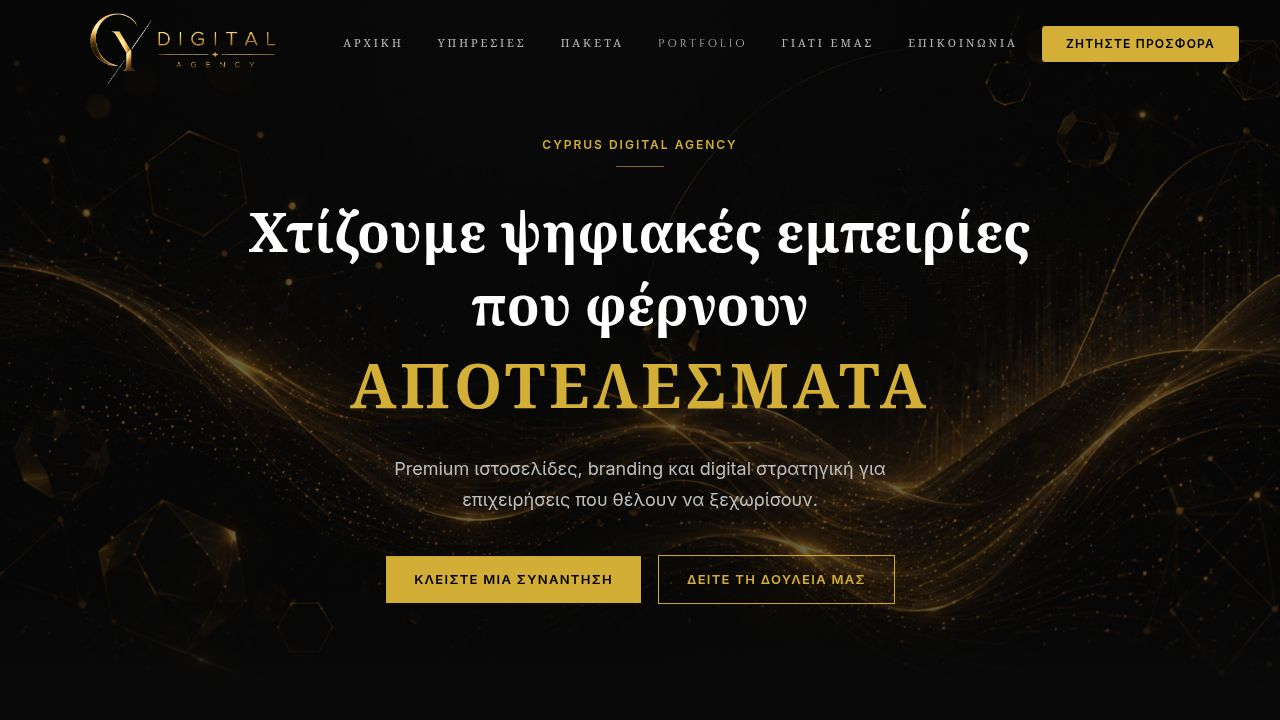
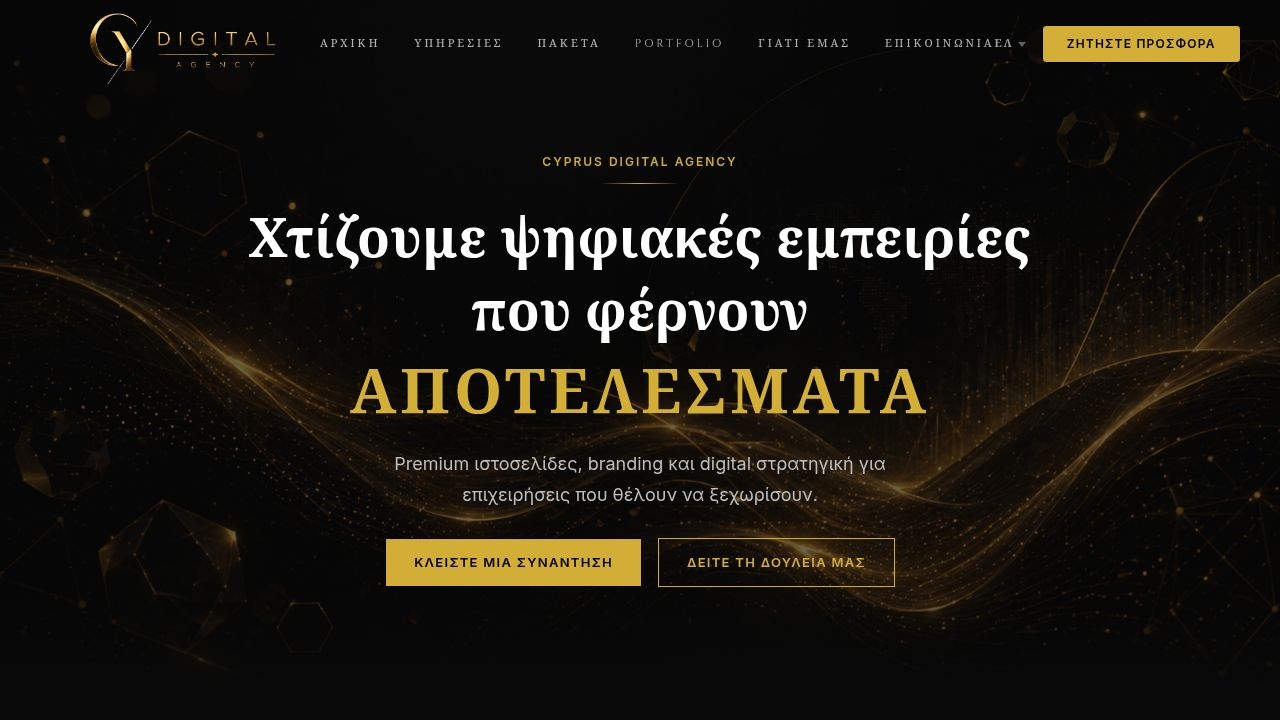
Update fonts and spacing for consistent display across languages
Update Google Fonts import to include Cinzel, adjust font families for navigation and labels in Header.tsx, and refine spacing for improved layout in desktop view.

Replit-Commit-Author: Agent
Replit-Commit-Session-Id: 8e3462cd-d2d7-46a6-a6c2-93f088b66c99
Replit-Commit-Checkpoint-Type: full_checkpoint
Replit-Commit-Event-Id: 05050cb2-1799-422c-8ecf-7397d1363fde
Replit-Commit-Screenshot-Url: https://storage.googleapis.com/screenshot-production-us-central1/b86a5d49-84b1-42db-b4d0-93cc767d2410/8e3462cd-d2d7-46a6-a6c2-93f088b66c99/IWf9iSH
Replit-Helium-Checkpoint-Created: true

diff --git a/artifacts/cydigital/src/components/Header.tsx b/artifacts/cydigital/src/components/Header.tsx
@@ -3,6 +3,9 @@ import { Menu, X } from "lucide-react";
 import { Button } from "@/components/ui/button";
 import { useLanguage, Language, languageNames } from "@/contexts/LanguageContext";
 
+const NAV_FONT = "'Cormorant Garamond', Georgia, serif";
+const LABEL_FONT = "'Cinzel', 'Cormorant Garamond', Georgia, serif";
+
 export function Header() {
   const { t, lang, setLang } = useLanguage();
   const [isScrolled, setIsScrolled] = useState(false);
@@ -60,14 +63,19 @@ export function Header() {
           />
         </div>
 
-        {/* CENTER — Nav menu (desktop) */}
-        <nav className="hidden md:flex items-center" style={{ gap: "34px" }}>
+        {/* CENTER — Nav (desktop) */}
+        <nav className="hidden md:flex items-center" style={{ gap: "22px" }}>
           {navLinks.map((link) => (
             <button
               key={link.name}
               onClick={() => handleNavClick(link.href)}
               className="uppercase text-white/70 hover:text-[#D4AF37] transition-colors duration-300 whitespace-nowrap"
-              style={{ fontFamily: "'Cinzel', 'Cormorant Garamond', Georgia, serif", fontSize: "11px", letterSpacing: "3px", fontWeight: 400 }}
+              style={{
+                fontFamily: NAV_FONT,
+                fontSize: "11px",
+                letterSpacing: "2px",
+                fontWeight: 600,
+              }}
               data-testid={`link-${link.href.replace("#", "")}`}
             >
               {link.name}
@@ -76,7 +84,7 @@ export function Header() {
         </nav>
 
         {/* RIGHT — Language switcher + CTA + hamburger */}
-        <div className="flex items-center" style={{ gap: "16px" }}>
+        <div className="flex items-center" style={{ gap: "16px", marginLeft: "16px" }}>
 
           {/* Language switcher */}
           <div className="relative">
@@ -84,7 +92,7 @@ export function Header() {
               onClick={() => setLangOpen(!langOpen)}
               onBlur={() => setTimeout(() => setLangOpen(false), 150)}
               className="flex items-center gap-1 text-white/60 hover:text-[#D4AF37] transition-colors duration-200"
-              style={{ fontSize: "11px", letterSpacing: "2px", fontWeight: 700, fontFamily: "'Cinzel', serif" }}
+              style={{ fontSize: "11px", letterSpacing: "2px", fontWeight: 700, fontFamily: LABEL_FONT }}
             >
               {languageNames[lang]}
               <svg width="8" height="5" viewBox="0 0 8 5" fill="currentColor" style={{ opacity: 0.6, marginTop: "1px" }}>
@@ -103,7 +111,7 @@ export function Header() {
                     className="w-full text-left px-4 py-2 transition-colors duration-150 hover:bg-[rgba(212,175,55,0.08)]"
                     style={{
                       fontSize: "11px", letterSpacing: "2px", fontWeight: 700,
-                      fontFamily: "'Cinzel', serif",
+                      fontFamily: LABEL_FONT,
                       color: l === lang ? "#D4AF37" : "rgba(255,255,255,0.6)",
                     }}
                   >
@@ -118,6 +126,7 @@ export function Header() {
             <Button
               onClick={() => handleNavClick("#contact")}
               className="bg-[#D4AF37] text-black font-semibold tracking-[0.1em] uppercase text-xs px-6 py-2.5 rounded-sm hover:bg-[#D4AF37]/90 transition-all duration-300 hover:shadow-[0_0_18px_rgba(212,175,55,0.3)]"
+              style={{ fontFamily: NAV_FONT, letterSpacing: "2.5px", fontSize: "11px" }}
               data-testid="button-header-cta"
             >
               {t.nav_cta}
@@ -143,7 +152,12 @@ export function Header() {
                 key={link.name}
                 onClick={() => handleNavClick(link.href)}
                 className="text-left text-white/70 hover:text-[#D4AF37] transition-colors py-3 border-b border-white/5 uppercase"
-                style={{ fontFamily: "'Cinzel', 'Cormorant Garamond', Georgia, serif", fontSize: "12px", letterSpacing: "3px", fontWeight: 400 }}
+                style={{
+                  fontFamily: NAV_FONT,
+                  fontSize: "12px",
+                  letterSpacing: "3px",
+                  fontWeight: 600,
+                }}
                 data-testid={`link-mobile-${link.href.replace("#", "")}`}
               >
                 {link.name}
@@ -156,7 +170,7 @@ export function Header() {
                   onClick={() => { setLang(l); setMobileMenuOpen(false); }}
                   style={{
                     fontSize: "11px", letterSpacing: "2px", fontWeight: 700,
-                    fontFamily: "'Cinzel', serif",
+                    fontFamily: LABEL_FONT,
                     color: l === lang ? "#D4AF37" : "rgba(255,255,255,0.45)",
                     padding: "4px 0",
                     borderBottom: l === lang ? "1px solid #D4AF37" : "1px solid transparent",
@@ -170,6 +184,7 @@ export function Header() {
             <Button
               onClick={() => handleNavClick("#contact")}
               className="bg-[#D4AF37] text-black font-semibold uppercase tracking-widest text-xs px-6 py-3 mt-4 w-full rounded-sm"
+              style={{ fontFamily: NAV_FONT, letterSpacing: "2.5px", fontSize: "11px" }}
               data-testid="button-mobile-header-cta"
             >
               {t.nav_cta}

diff --git a/artifacts/cydigital/src/index.css b/artifacts/cydigital/src/index.css
@@ -1,4 +1,4 @@
-@import url('https://fonts.googleapis.com/css2?family=Cormorant+Garamond:wght@300;400;500;600;700&family=Inter:wght@300;400;500;600;700&display=swap');
+@import url('https://fonts.googleapis.com/css2?family=Cinzel:wght@400;600;700&family=Cormorant+Garamond:ital,wght@0,300;0,400;0,500;0,600;0,700;1,400;1,600&family=Inter:wght@300;400;500;600;700&subset=greek,latin,latin-ext&display=swap');
 @import "tailwindcss";
 @import "tw-animate-css";
 @plugin "@tailwindcss/typography";